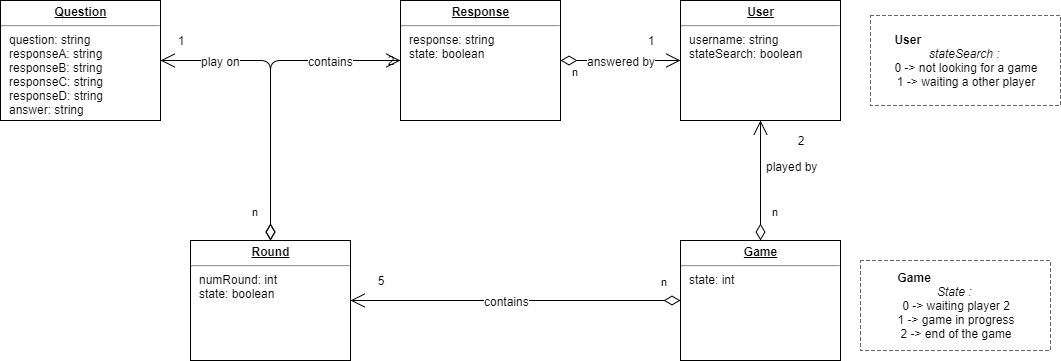
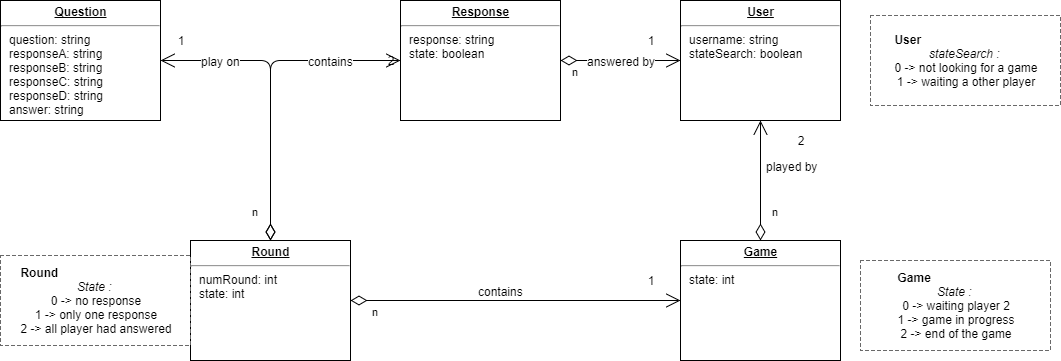
change state of round : now its an indicator of how many people replay at the round. Update graph UML

diff --git a/symfony-quizz/src/QuizzBundle/Entity/Round.php b/symfony-quizz/src/QuizzBundle/Entity/Round.php
@@ -32,9 +32,10 @@ class Round
     private $numRound;
 
     /**
-     * @var bool
+     * @var int
+     * @Groups({"game"})
      *
-     * @ORM\Column(name="state", type="boolean")
+     * @ORM\Column(name="state", type="integer")
      */
     private $state;
 
@@ -48,6 +49,7 @@ class Round
 
     /**
      * @var Response
+     * @Groups({"game"})
      *
      * @ORM\ManyToOne(targetEntity="Response", cascade={"persist"})
      */
@@ -55,6 +57,7 @@ class Round
 
     /**
      * @var Response
+     * @Groups({"game"})
      *
      * @ORM\ManyToOne(targetEntity="Response", cascade={"persist"})
      *
@@ -103,27 +106,19 @@ class Round
     }
 
     /**
-     * Set state
-     *
-     * @param boolean $state
-     *
-     * @return Round
-     */
-    public function setState($state)
-    {
-        $this->state = $state;
-
-        return $this;
-    }
-
-    /**
-     * Get state
-     *
-     * @return bool
+     * @return int
      */
     public function getState()
     {
         return $this->state;
+    }
+
+    /**
+     * @param int $state
+     */
+    public function setState($state)
+    {
+        $this->state = $state;
     }
 
     /**

diff --git a/symfony-quizz/src/QuizzBundle/Controller/ResponseController.php b/symfony-quizz/src/QuizzBundle/Controller/ResponseController.php
@@ -47,12 +47,13 @@ class ResponseController extends Controller
     public function postAnswerAction(Request $request)
     {
         $responseManager = $this->container->get("quizz.response");
-        $gameManager = $this->container->get("quizz.game");
+        $roundManager = $this->container->get("quizz.round");
 
         $data = json_decode($request->getContent(), true);
         $game = $responseManager->saveAnswers($data["user"], $data["game"], $data["answers"]);
-        $rounds = $gameManager->getRoundsOfGames($game);
+        $rounds = $roundManager->getRoundsOfGame($game);
 
-        return new Response(json_encode(["game" => $game, "rounds" => $rounds]));
+        return new Response(json_encode(["game" => $this->serializer->normalize($game, null, ["groups" => ["game"]]),
+            "rounds" => $this->serializer->normalize($rounds, null, ["groups" => ["game"]])]));
     }
 }

diff --git a/symfony-quizz/src/QuizzBundle/Entity/Game.php b/symfony-quizz/src/QuizzBundle/Entity/Game.php
@@ -34,11 +34,13 @@ class Game
 
     /**
      *
+     * @Groups({"game"})
      * @ORM\ManyToOne(targetEntity="User", cascade={"persist"})
      */
     private $userA;
 
     /**
+     * @Groups({"game"})
      *
      * @ORM\ManyToOne(targetEntity="User", cascade={"persist"})
      */

diff --git a/symfony-quizz/src/QuizzBundle/Entity/User.php b/symfony-quizz/src/QuizzBundle/Entity/User.php
@@ -15,7 +15,7 @@ class User
 {
     /**
      * @var int
-     * @Groups({"game", "user"})
+     * @Groups({"user"})
      *
      * @ORM\Column(name="id", type="integer")
      * @ORM\Id

diff --git a/symfony-quizz/src/QuizzBundle/Entity/Response.php b/symfony-quizz/src/QuizzBundle/Entity/Response.php
@@ -23,6 +23,7 @@ class Response
 
     /**
      * @var string
+     * @Groups({"game"})
      *
      * @ORM\Column(name="response", type="string", length=255)
      */
